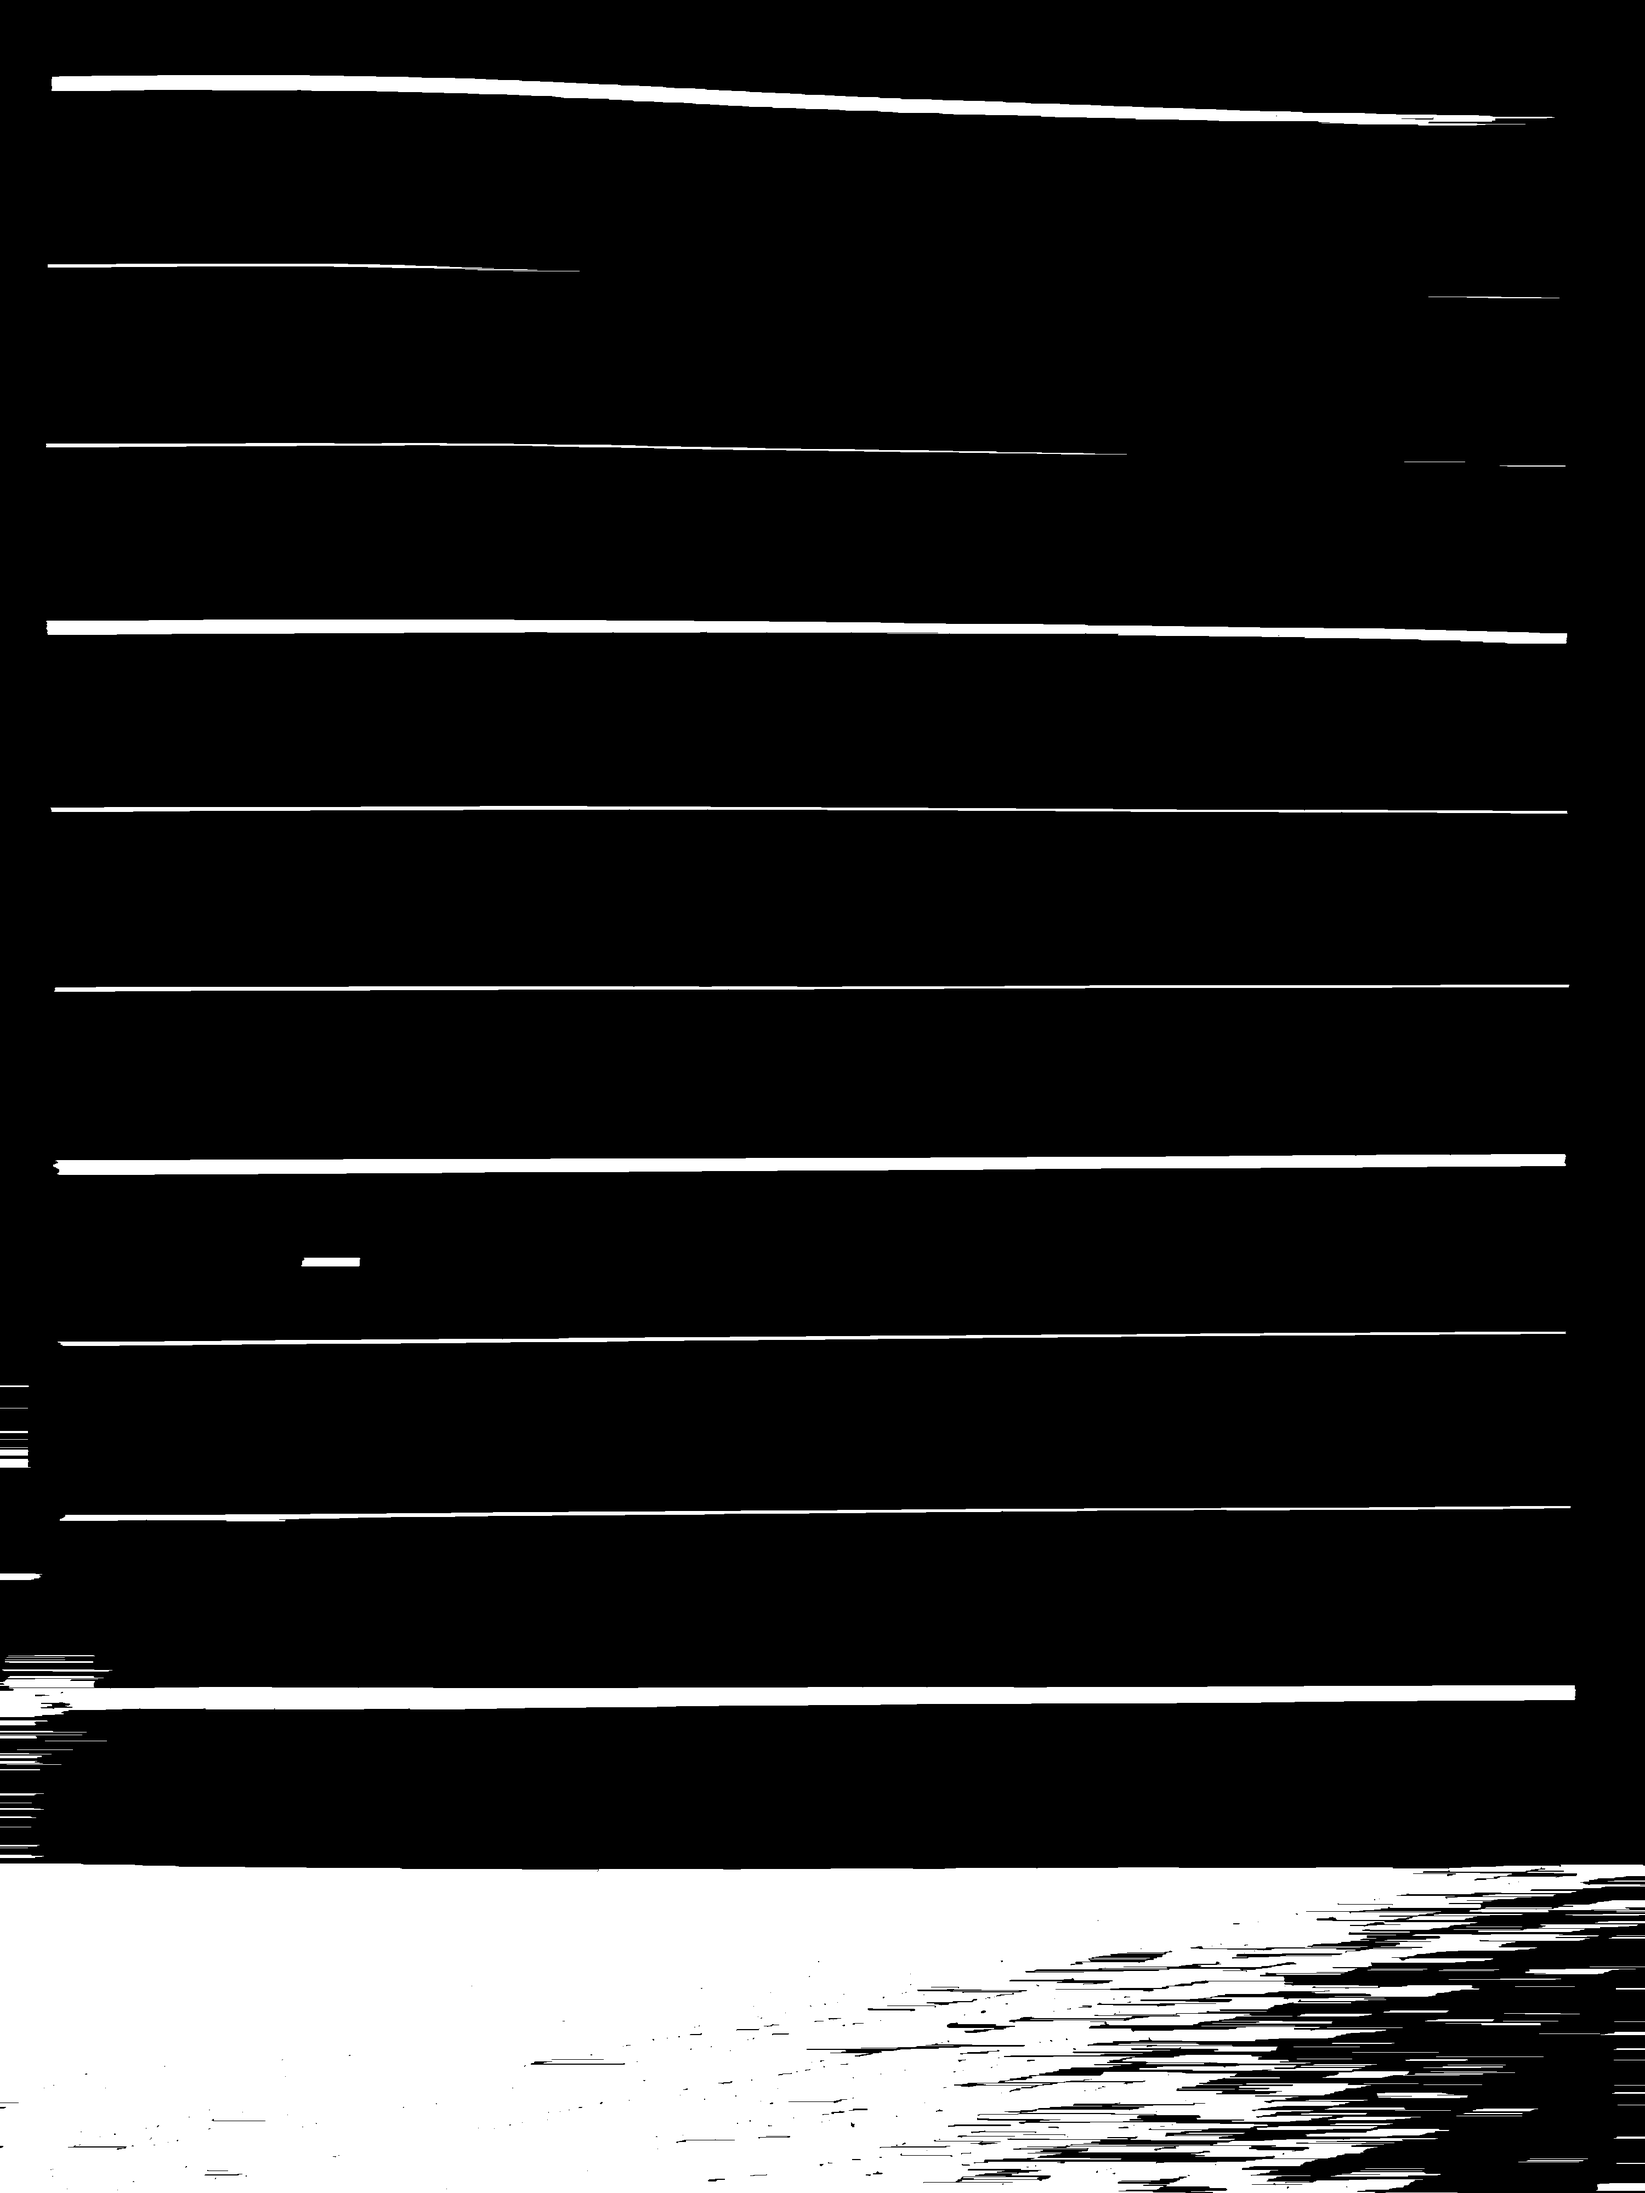
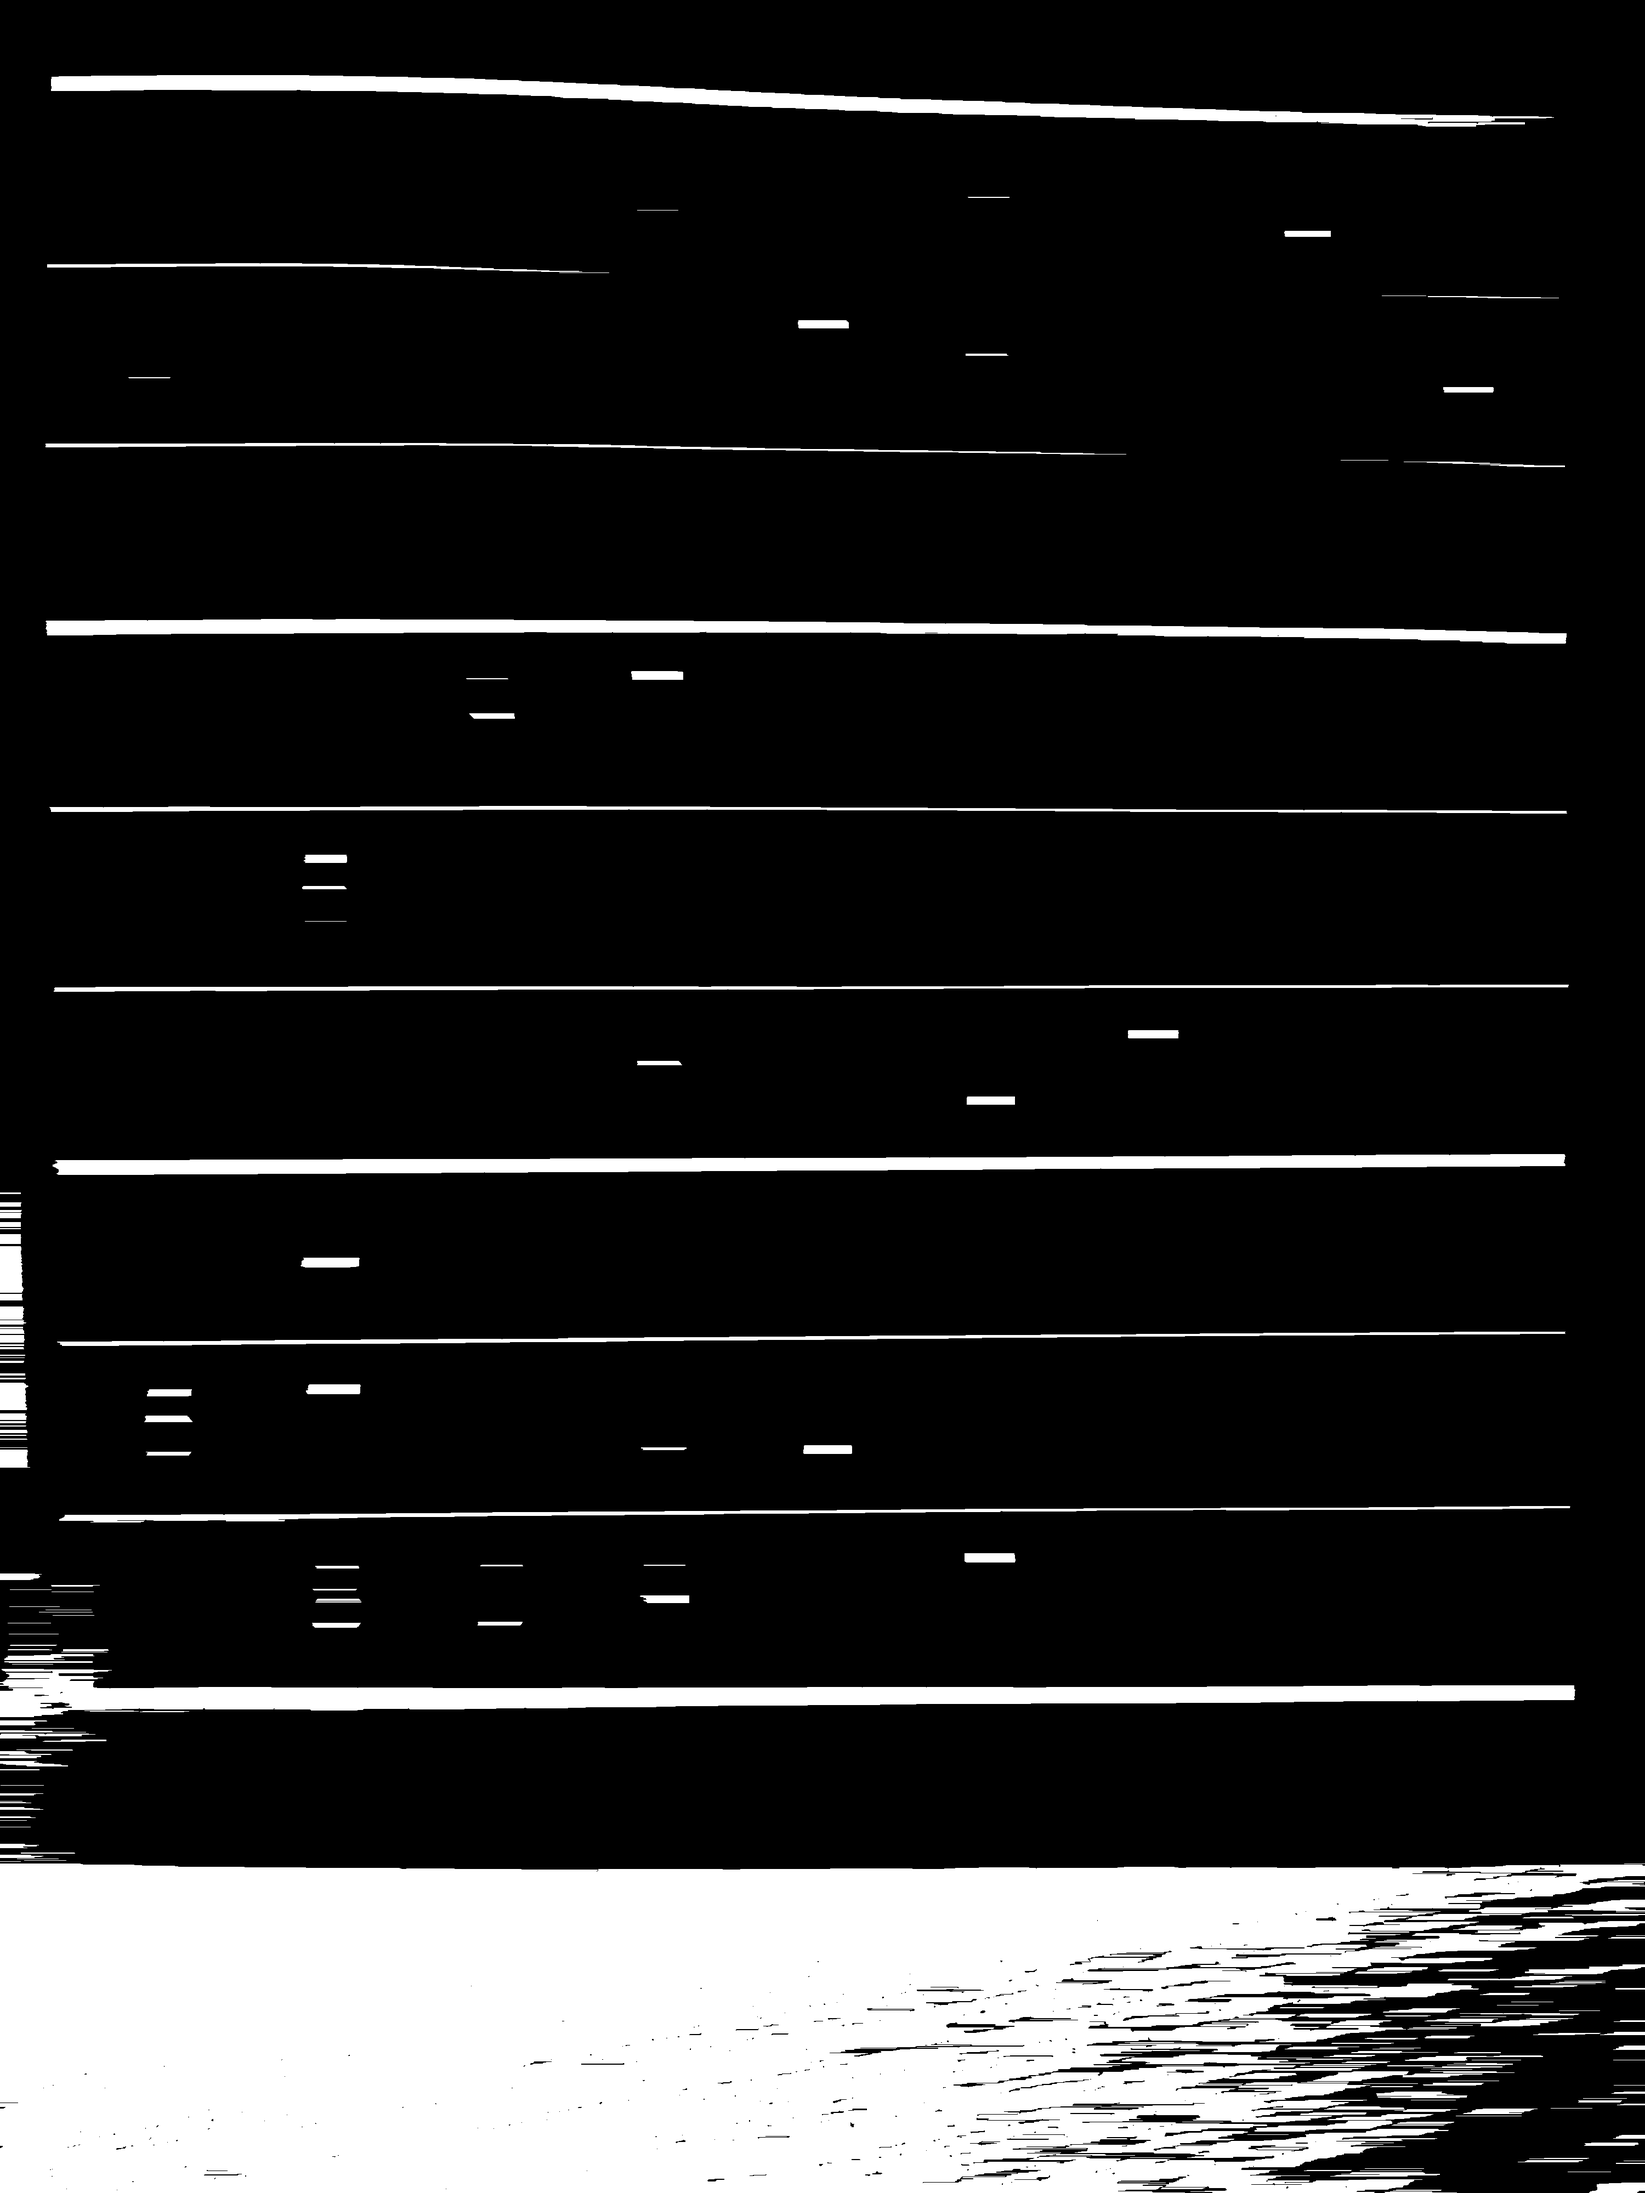
Improve morphological line detection

diff --git a/sudoku_scan.py b/sudoku_scan.py
@@ -46,11 +46,11 @@ else:
 
     # 6. Create horizontal and vertical kernels
     horizontal_kernel = cv2.getStructuringElement(
-        cv2.MORPH_RECT, (max(10, width // 30), 1)
+    cv2.MORPH_RECT, (max(10, width // 40), 1)
     )
 
     vertical_kernel = cv2.getStructuringElement(
-        cv2.MORPH_RECT, (1, max(10, height // 30))
+    cv2.MORPH_RECT, (1, max(10, height // 40))
     )
 
     # 7. Detect horizontal lines
